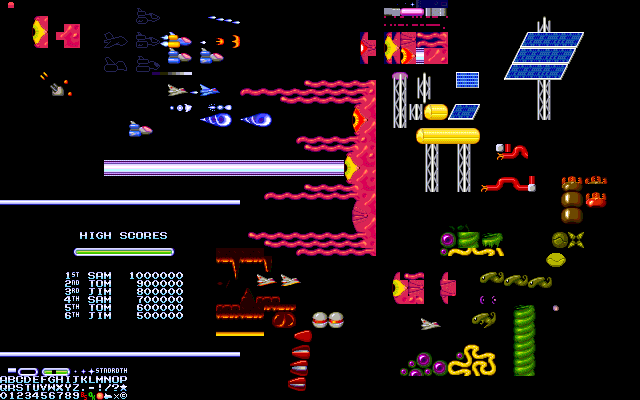
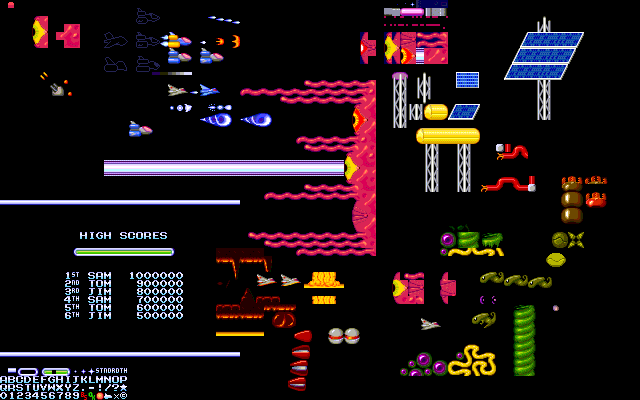
More graphics, high score entry.
git-svn-id: http://sources.cosam.org/svn/uzebox/shooter@561 becab9fe-04d6-0310-87a0-b233c6ee48ea

Changed region(s): [[0.4688, 0.66, 0.5625, 0.87]]

diff --git a/shooter.c b/shooter.c
@@ -86,8 +86,8 @@ typedef struct {
 
 #include "data/level1.inc"
 #include "data/level2.inc"
-
-#define OVERLAY_OFFSET(x) ((x<3) ? (192-RAM_TILES_COUNT) : 0)
+#include "data/level3.inc"
+#include "data/level4.inc"
 
 #define EXPLOSION_FRAMES_S 2
 const char ship_explosion_map[EXPLOSION_FRAMES_S][6] PROGMEM = {
@@ -266,11 +266,24 @@ char scroll_speed = 0;
 char scroll_countdown = 0;
 enemy_def_t *enemy_pos = NULL;
 enemy_t enemies[MAX_ENEMIES];
+int overlay_offset = 0;
 
 #define HIGH_SCORES 8
 #define MAX_SCORE 999999999
 char hi_name[HIGH_SCORES][4] = { "SAM\0","TOM\0","UZE\0","TUX\0","JIM\0","B*A\0","ABC\0","XYZ\0" };
-long hi_score[HIGH_SCORES]   = { 1000000, 900000, 800000, 700000, 600000, 500000, 400000, 300000 };
+long hi_score[HIGH_SCORES]   = { 1000000, 900000, 800000, 700000, 600000, 500000, 400000, 100 };
+
+
+void set_tiles( int level ) {
+	if( level < 3 ) {
+		SetTileTable(tiles1);
+		overlay_offset = 192-RAM_TILES_COUNT;
+	}
+	else {
+		SetTileTable(overlay_tiles);
+		overlay_offset = 0;
+	}
+}
 
 int add_enemy( enemy_id_t id, int x, int y ) {
 	int i;
@@ -378,6 +391,7 @@ void level_load( unsigned char *level_data ) {
 	scroll_countdown = 0;
 	scroll_speed = 5;
 	ClearVram();
+	SetScrolling(0,0);
 
 	// Draw in the first screen-full of columns.
 	for( x=0 ; x<VRAM_TILES_H ; x++ ) {
@@ -776,8 +790,27 @@ void text_write( char x, char y, const char *text, bool overlay ) {
 				default: t = 0; // blank
 			}
 		}
-		SetTile(x++, y, t + OVERLAY_OFFSET(level) + (overlay ? RAM_TILES_COUNT : 0 ) );
+		SetTile(x++, y, t + overlay_offset + (overlay ? RAM_TILES_COUNT : 0 ) );
 		p++;
+	}
+}
+
+char text_code( int offset ) {
+	if( offset >= 1 && offset <= 26 ) {
+		return 'A' + offset-1;
+	}
+	else if ( offset >= 32 && offset <= 41 ) {
+		return '0' + offset-1;
+	}
+	else {
+		switch( offset ) {
+			case '.': return 27;
+			case '!': return 28;
+			case '/': return 29;
+			case '?': return 30;
+			case '*': return 31;
+			default: return ' ';
+		}
 	}
 }
 
@@ -805,11 +838,11 @@ void text_write_number( char x, char y, unsigned long num, align_t align, bool o
 	}
 	while(--pos >= 0) {
 		if( overlay ) {
-			vram[(VRAM_TILES_H*(VRAM_TILES_V+y))+x] = digits[pos] + 32 + OVERLAY_OFFSET(level) + RAM_TILES_COUNT;
+			vram[(VRAM_TILES_H*(VRAM_TILES_V+y))+x] = digits[pos] + 32 + overlay_offset + RAM_TILES_COUNT;
 			x++;
 		}
 		else {
-			SetTile(x++,y,digits[pos] + 32 + OVERLAY_OFFSET(level) );
+			SetTile(x++,y,digits[pos] + 32 + overlay_offset );
 		}
 	}
 }
@@ -834,17 +867,19 @@ void update_charge( void ) {
 		else if( i == 9 )
 			offset++;		
 		
-		vram[(VRAM_TILES_H*VRAM_TILES_V)+i+9] = OVERLAY_OFFSET(level) + RAM_TILES_COUNT + offset;
+		vram[(VRAM_TILES_H*VRAM_TILES_V)+i+9] = overlay_offset + RAM_TILES_COUNT + offset;
 	}
 }
 
 void update_lives() {
 	if( lives > MAX_LIVES ) lives = MAX_LIVES;
-	vram[(VRAM_TILES_H*(VRAM_TILES_V+1))+26] = lives + 32 + OVERLAY_OFFSET(level) + RAM_TILES_COUNT;
+	vram[(VRAM_TILES_H*(VRAM_TILES_V+1))+26] = lives + 32 + overlay_offset + RAM_TILES_COUNT;
 }
 
 void init_overlay() {
 	int i;
+
+	Screen.overlayHeight=OVERLAY_LINES;
 
 	// Clear overlay
 	for( i=0 ; i<VRAM_TILES_H ; i++ ) {
@@ -853,19 +888,19 @@ void init_overlay() {
 	}
 
 	// "Score" text
-	vram[(VRAM_TILES_H*VRAM_TILES_V)+1] = OVERLAY_OFFSET(level) + RAM_TILES_COUNT + 54;
-	vram[(VRAM_TILES_H*VRAM_TILES_V)+2] = OVERLAY_OFFSET(level) + RAM_TILES_COUNT + 55;
-	vram[(VRAM_TILES_H*VRAM_TILES_V)+3] = OVERLAY_OFFSET(level) + RAM_TILES_COUNT + 56;
+	vram[(VRAM_TILES_H*VRAM_TILES_V)+1] = overlay_offset + RAM_TILES_COUNT + 54;
+	vram[(VRAM_TILES_H*VRAM_TILES_V)+2] = overlay_offset + RAM_TILES_COUNT + 55;
+	vram[(VRAM_TILES_H*VRAM_TILES_V)+3] = overlay_offset + RAM_TILES_COUNT + 56;
 
 	// "Charge" text
-	vram[(VRAM_TILES_H*(VRAM_TILES_V+1))+12] = OVERLAY_OFFSET(level) + RAM_TILES_COUNT + 57;
-	vram[(VRAM_TILES_H*(VRAM_TILES_V+1))+13] = OVERLAY_OFFSET(level) + RAM_TILES_COUNT + 58;
-	vram[(VRAM_TILES_H*(VRAM_TILES_V+1))+14] = OVERLAY_OFFSET(level) + RAM_TILES_COUNT + 59;
-	vram[(VRAM_TILES_H*(VRAM_TILES_V+1))+15] = OVERLAY_OFFSET(level) + RAM_TILES_COUNT + 60;
+	vram[(VRAM_TILES_H*(VRAM_TILES_V+1))+12] = overlay_offset + RAM_TILES_COUNT + 57;
+	vram[(VRAM_TILES_H*(VRAM_TILES_V+1))+13] = overlay_offset + RAM_TILES_COUNT + 58;
+	vram[(VRAM_TILES_H*(VRAM_TILES_V+1))+14] = overlay_offset + RAM_TILES_COUNT + 59;
+	vram[(VRAM_TILES_H*(VRAM_TILES_V+1))+15] = overlay_offset + RAM_TILES_COUNT + 60;
 	
 	// Lives counter
-	vram[(VRAM_TILES_H*(VRAM_TILES_V+1))+24] = OVERLAY_OFFSET(level) + RAM_TILES_COUNT + 61;
-	vram[(VRAM_TILES_H*(VRAM_TILES_V+1))+25] = OVERLAY_OFFSET(level) + RAM_TILES_COUNT + 62;
+	vram[(VRAM_TILES_H*(VRAM_TILES_V+1))+24] = overlay_offset + RAM_TILES_COUNT + 61;
+	vram[(VRAM_TILES_H*(VRAM_TILES_V+1))+25] = overlay_offset + RAM_TILES_COUNT + 62;
 
 	update_score();
 	update_charge();
@@ -1050,17 +1085,15 @@ void check_colmap_hit( unsigned int col_map, int col_x, int col_y, bullet_status
 	}
 }
 
-void start_level( int level ){
+bool play_level( int level ){
 	int i;
-	bool done = false;
+	bool alive = true;
+	bool complete = false;
 	int current_bullet = -1;
-	long old_score = 0;
+	long old_score = score;
 	unsigned int col_map;
 	int col_x, col_y;
 
-	FadeOut(FADE_SPEED,true);
-
-	score = 0;
 	bullet_charge = 0;
 	frame = 0;
 
@@ -1070,7 +1103,6 @@ void start_level( int level ){
 	SetTileTable(tiles1);
 	SetSpriteVisibility(true);
 	SetScrolling(0,0);
-	Screen.overlayHeight=OVERLAY_LINES;
 	level_load( (unsigned char*)level1_map );
 
 	sprites[0].tileIndex = 1;
@@ -1086,7 +1118,7 @@ void start_level( int level ){
 	init_overlay();
 
 	FadeIn(FADE_SPEED,false);
-	while( !done ) {
+	while( alive && !complete ) {
 		unsigned int buttons = ReadJoypad(0);
 
 		WaitVsync(1);
@@ -1160,7 +1192,8 @@ void start_level( int level ){
 				for( i=0 ; i<SPRITE_BULLET1 ; i++ ) {
 					sprites[i].tileIndex = 0;
 				}
-				done = 1;
+				alive = false;
+				lives--;
 			}
 			ship.anim_step--;
 		}
@@ -1211,6 +1244,8 @@ void start_level( int level ){
 	FadeOut(FADE_SPEED,true);
 	SetSpriteVisibility(false);
 	ClearVram();
+
+	return complete;
 }
 
 void draw_starfield( void ) {
@@ -1221,7 +1256,7 @@ void draw_starfield( void ) {
 		SetTile(
 			random()%SCREEN_TILES_H,
 			random()%SCREEN_TILES_V,
-			(random()%3) + OVERLAY_OFFSET(level) + 45);
+			(random()%3) + overlay_offset + 45);
 	}
 }
 
@@ -1265,8 +1300,8 @@ int show_hi_scores() {
 	draw_starfield();
 
 	for( i=0 ; i<SCREEN_TILES_H ; i++ ) {
-		SetTile(i,3,OVERLAY_OFFSET(level)+52);
-		SetTile(i,22,OVERLAY_OFFSET(level)+52);
+		SetTile(i,3,overlay_offset+52);
+		SetTile(i,22,overlay_offset+52);
 	}
 	text_write((SCREEN_TILES_H-10)/2,HI_SCORE_TOP-4,"HI  SCORES",false);
 
@@ -1282,13 +1317,126 @@ int show_hi_scores() {
 	return 0;
 }
 
-int show_attract() {
-	return 0;
+void game_over() {
+#define LETTER_BACKSPACE 42
+#define LETTER_END 43
+	FadeOut(FADE_SPEED,true);
+
+	ClearVram();
+
+	text_write((SCREEN_TILES_H-10)/2,23,"GAME  OVER",false);
+	FadeIn(FADE_SPEED*4,false);
+
+	for( int i=0 ; i < 88 ; i++ ) {
+		Scroll(0,1);
+		WaitVsync(2);
+	}
+
+	if( score > hi_score[HIGH_SCORES-1] ) {
+		int position = HIGH_SCORES-1;
+		int name_pos = 0;
+		int letter = 1;
+
+		while( score > hi_score[position-1] ) {
+			position--;
+		}
+		if( position == 0 ) {
+			text_write((SCREEN_TILES_H-26)/2,5,"YOU BEAT THE HIGHEST SCORE!",false);
+		}
+		else {
+			text_write((SCREEN_TILES_H-20)/2,5,"YOU GOT A HIGH SCORE!",false);
+		}
+
+		hi_name[position][0] = '\0';
+		hi_score[position] = score;
+
+		text_write_number((SCREEN_TILES_H-6)/2,8,position+1,ALIGN_LEFT,false);
+		text_write(((SCREEN_TILES_H-6)/2)+1,8,".",false);
+
+		while( name_pos < 4 ) {
+			unsigned int buttons = ReadJoypad(0);
+
+			frame++;
+			if( frame % 10 > 2 || buttons != 0 ) {
+				SetTile( (SCREEN_TILES_H/2)+name_pos, 8, letter+overlay_offset );
+			}
+			else {
+				SetTile( (SCREEN_TILES_H/2)+name_pos, 8, 0 );
+			}
+
+			if( buttons & BTN_LEFT ) {
+				letter--;
+				if( name_pos == 3 ) {
+					if( letter < LETTER_BACKSPACE ) letter = LETTER_END;
+				}
+				else {
+					if( letter < 0 ) {
+						if( name_pos == 0 ) {
+							letter = LETTER_END-2; // Skip to last real character
+						}
+						else {
+							letter = LETTER_END;
+						}
+					}
+				}
+			}
+			if( buttons & BTN_RIGHT ) {
+				letter++;
+				if( name_pos == 3 ) {
+					if( letter > LETTER_END ) letter = LETTER_BACKSPACE;
+				}
+				else {
+					if( name_pos == 0 ) {
+						if( letter >= LETTER_BACKSPACE ) letter = 1; // Skip to first real character
+					}
+					else {
+						if( letter > LETTER_END ) letter = 0;
+					}
+				}
+			}
+			if( buttons & BTN_B ) {
+				while( ReadJoypad(0) );
+				if( letter == LETTER_END ) {
+					hi_name[position][name_pos] = 0;
+					name_pos = 4;
+				}
+				else if( letter == LETTER_BACKSPACE ) {
+					SetTile( (SCREEN_TILES_H/2)+name_pos, 8, 0 );
+					hi_name[position][name_pos] = 0;
+					name_pos--;
+					if( name_pos <= 0 ) {
+						name_pos = 0;
+						letter = 1;
+					}
+				}
+				else {
+					SetTile( (SCREEN_TILES_H/2)+name_pos, 8, letter+overlay_offset );
+					hi_name[position][name_pos] = text_code( letter );
+					name_pos++;
+				}
+				if( name_pos == 3 ) {
+					letter = LETTER_END;
+				}
+			}
+
+			WaitVsync(5);
+		}
+		FadeOut(FADE_SPEED,true);
+		ClearVram();
+		SetScrolling(0,0);
+		show_hi_scores();
+	}
+	else {
+		wait_start(120);
+	}
+
+	FadeOut(FADE_SPEED,true);
+	SetScrolling(0,0);
+	ClearVram();
 }
 
-void show_intro() {
-	//FadeOut(FADE_SPEED,true);
-	//FadeIn(FADE_SPEED,true);
+int show_attract() {
+	return 0;
 }
 
 int main(){
@@ -1297,11 +1445,31 @@ int main(){
 	while(1) {
 		Screen.overlayHeight=0;
 		SetScrolling(0,0);
-		SetTileTable(tiles1);
+		set_tiles( 0 );
+
 		if( show_title() || show_attract() || show_hi_scores() ) {
 			// Start was pressed...
-			show_intro();
-			start_level(1);
+			FadeOut(FADE_SPEED,true);
+			level = 1;
+			score = 0;
+			lives = 0;
+
+			while( level < 5 && lives >= 0 ) {
+				while( play_level(level) ) {
+					level++;
+				}
+			}
+
+			Screen.overlayHeight=0;
+			SetScrolling(0,0);
+			set_tiles( 0 );
+
+			if( level == 5 ) {
+				// Game completed.
+			}
+			else {
+				game_over();
+			}
 		}
 	}
 }
